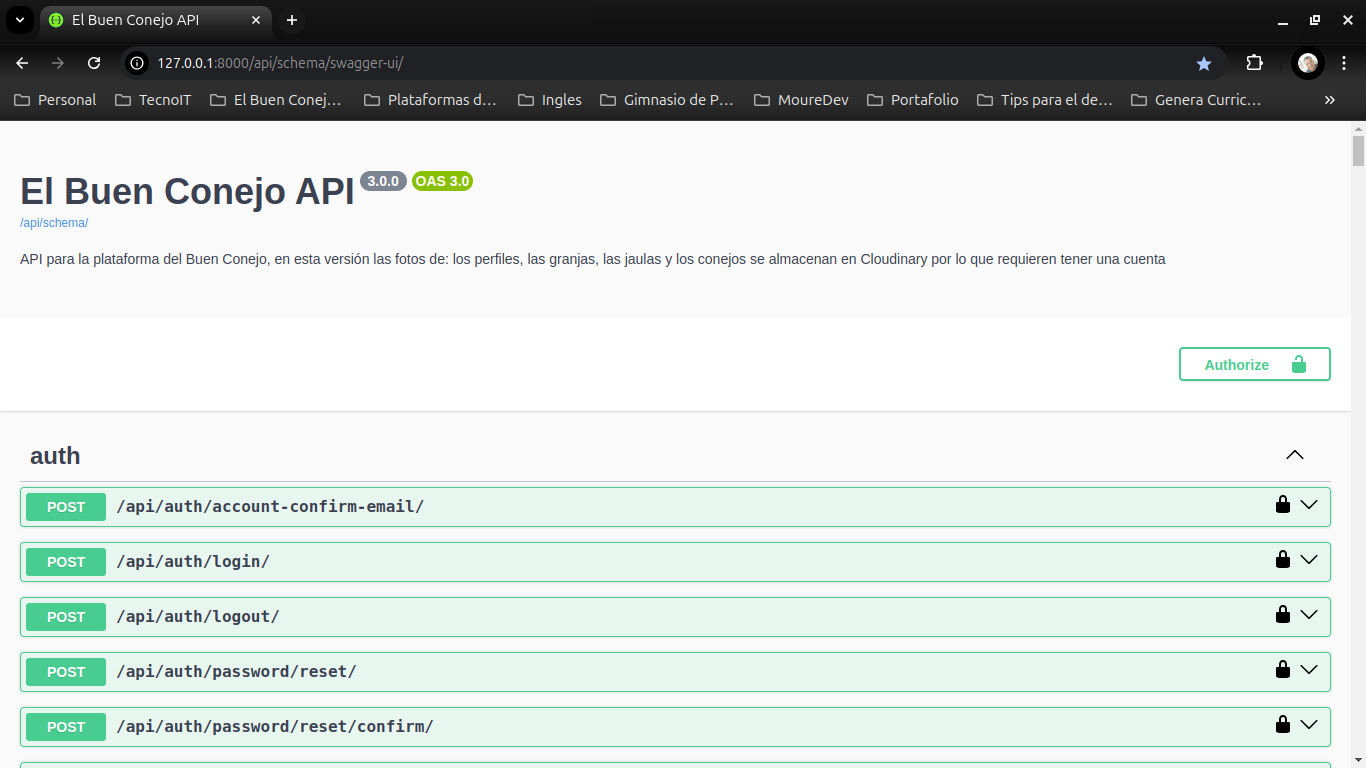
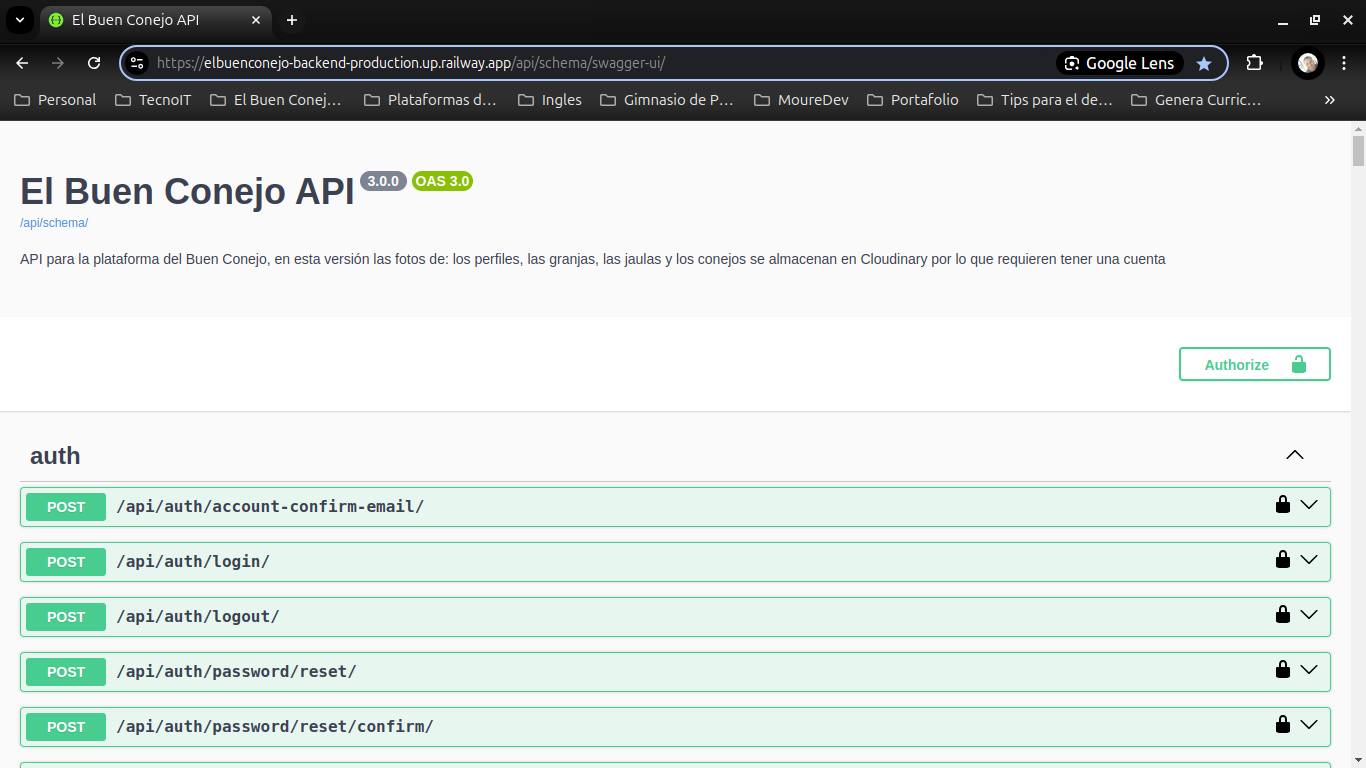
Added screen shoot of the API in the README.md file

Changed region(s): [[0.0922, 0.0625, 0.4919, 0.0938], [0.7687, 0.0625, 0.8917, 0.125]]

diff --git a/README.md b/README.md
@@ -37,12 +37,12 @@
   <h3 align="center">API El Buen Conejo</h3>
 
   <p align="center">
-    A manager for playlist's streaming videos in local mode!
+    An API for the next plattform of Buen Conejo!
     <br />
     <a href="https://github.com/el-buen-conejo/elbuenconejo-backend"><strong>Explore the docs »</strong></a>
     <br />
     <br />
-    <a href="https://service-streaming.onrender.com/">View Demo</a>
+    <a href="https://elbuenconejo-backend-production.up.railway.app/api/schema/swagger-ui/">View Demo</a>
     ·
     <a href="https://github.com/el-buen-conejo/elbuenconejo-backend/issues">Report Bug</a>
     ·
@@ -82,7 +82,7 @@
 <!-- ABOUT THE PROJECT -->
 ## About The Project
 
-[![Product Name Screen Shot][product-screenshot]](https://github.com/el-buen-conejo/elbuenconejo-backend/blob/82a8c694a418723faacf992c5dd76b6e328120f8/api_playlists.png)
+![Product Name Screen Shot](https://raw.githubusercontent.com/el-buen-conejo/elbuenconejo-backend/main/images/logo.png)
 
 It is a project to congregate rabbit farmers, trading rabbits, meat, and other derivate products, and finally share statistics with the community, industry, and government.
 
@@ -177,7 +177,7 @@ _For more examples, please refer to the [Documentation](https://service-streamin
 ## Roadmap
 
 - [ X ] Add CI/CD with Github Actions
-- [   ] Terminate swagger documentation
+- [ X ] Terminate swagger documentation
 - [   ] Add versioning control
 - [ X ] Deploy in Railway
 
@@ -207,7 +207,7 @@ Distributed under the GPL-3.0 License. See `LICENSE` for more information.
 
 Miguel Angel López Monroy - [@miguellopezmdev](https://twitter.com/miguellopezmdev) - miguel.lopezm.dev@gmail.com
 
-Project Link: [https://service-streaming.onrender.com/](https://service-streaming.onrender.com/)
+Project Link: [https://elbuenconejo-backend-production.up.railway.app/api/schema/swagger-ui/](https://elbuenconejo-backend-production.up.railway.app/api/schema/swagger-ui/)
 
 <p align="right">(<a href="#readme-top">back to top</a>)</p>
 
@@ -246,7 +246,7 @@ My favorite resources used:
 [license-url]: https://github.com/el-buen-conejo/elbuenconejo-backend/blob/main/LICENSE
 [linkedin-shield]: https://img.shields.io/badge/-LinkedIn-black.svg?style=for-the-badge&logo=linkedin&colorB=555
 [linkedin-url]: https://linkedin.com/in/miguellopezmdev
-[product-screenshot]: https://github.com/el-buen-conejo/elbuenconejo-backend/blob/82a8c694a418723faacf992c5dd76b6e328120f8/api_playlists.png
+[product-screenshot]: "https://raw.githubusercontent.com/el-buen-conejo/elbuenconejo-backend/main/images/logo.png"
 [Python]: https://img.shields.io/badge/python-3670A0?style=for-the-badge&logo=python&logoColor=ffdd54
 [Python-url]: https://www.python.org/
 [Django]: https://img.shields.io/badge/django-%23092E20.svg?style=for-the-badge&logo=django&logoColor=white
